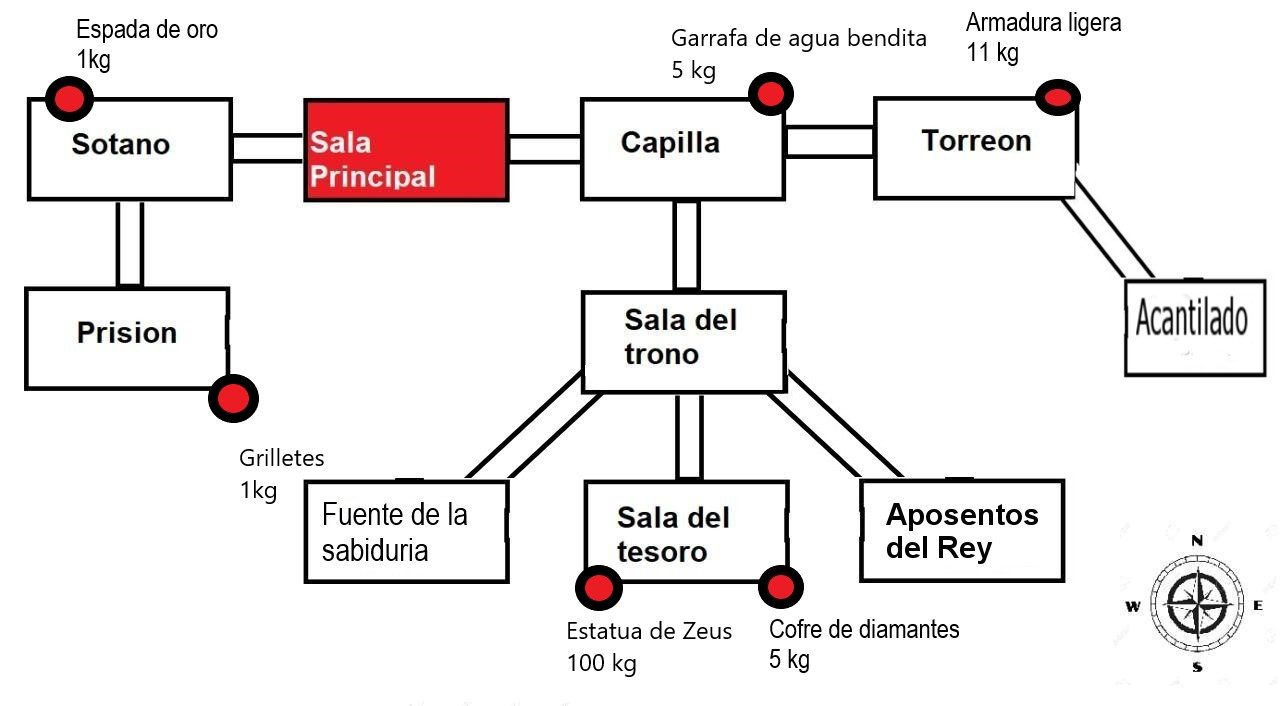
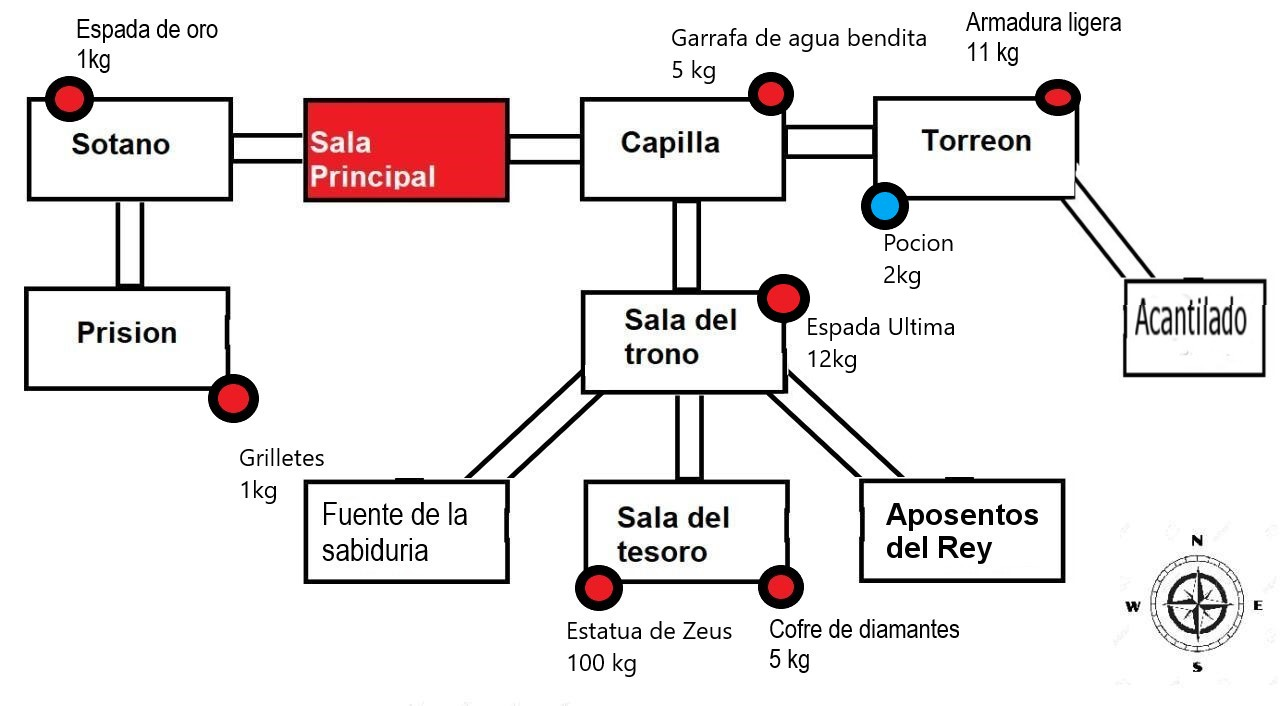
21. Añadido comando para usar pociones

Changed region(s): [[0.5938, 0.3739, 0.75, 0.5297], [0.6562, 0.2493, 0.75, 0.4051], [0.875, 0.4363, 1.0, 0.4986]]

diff --git a/Player.java b/Player.java
@@ -129,11 +129,42 @@ public class Player
             System.out.println("You don't have that item!");
         }
         else {
-                currentRoom.addPremadeItem(it);
-                pesoMax += it.getWeight();
-                mochila.remove(cont2);
-                System.out.println("You have: " + pesoMax + " kg(s) free");
-                System.out.println();
+            currentRoom.addPremadeItem(it);
+            pesoMax += it.getWeight();
+            mochila.remove(cont2);
+            System.out.println("You have: " + pesoMax + " kg(s) free");
+            System.out.println();
+        }
+    }
+
+    public void drinkPotion(Command command) 
+    {
+        if(!command.hasSecondWord()) {
+            System.out.println("Drink what?");
+            return;
+        }
+        String objeto = command.getSecondWord();
+        boolean drinked = false;
+        int cont = 0;
+        int pesoAumento = pesoMax;
+        for (Item obj : mochila){
+            if (obj.getId().equals("potion")) {
+                drinked = true;
             }
+            pesoAumento += obj.getWeight();
+            if (drinked == false){
+                cont++; 
+            }
+        }
+        if (drinked = false) {
+            System.out.println("You don't have that item!");
+        }
+        else {
+            pesoMax += pesoAumento + mochila.get(cont).getWeight();
+            mochila.remove(cont);
+            System.out.println("You have: " + pesoMax + " kg(s) free");
+            System.out.println();
+        }
     }
 }
+

diff --git a/Game.java b/Game.java
@@ -52,6 +52,8 @@ public class Game
         prision.addItem("a rusty shackles", "shackles", 1, true);
         torreon.addItem("a light armor", "armor", 11, true);
         salaDelTesoro.addItem("a filled of diamonds chest", "chest", 5, true);
+        torreon.addItem("a potion that multiplies your strenght", "potion", 5, true);
+        salaDelTrono.addItem("the most powerful sword ever forged", "ultima", 5, true);
         // initialise room exits
         salaPrincipal.setExit("east", capilla);
         salaPrincipal.setExit("west", sotano);
@@ -142,6 +144,9 @@ public class Game
         } 
         else if (commandWord.equals("drop")) {
             jugador.dropItem(command);
+        }
+        else if (commandWord.equals("drink")) {
+            jugador.drinkPotion(command);
         }
         return wantToQuit;
     }

diff --git a/CommandWords.java b/CommandWords.java
@@ -13,7 +13,7 @@ public class CommandWords
 {
     // a constant array that holds all valid command words
     private static final String[] validCommands = {
-            "go", "quit", "help", "look", "eat", "back", "take", "items", "drop"
+            "go", "quit", "help", "look", "eat", "back", "take", "items", "drop", "drink"
         };
 
     /**
